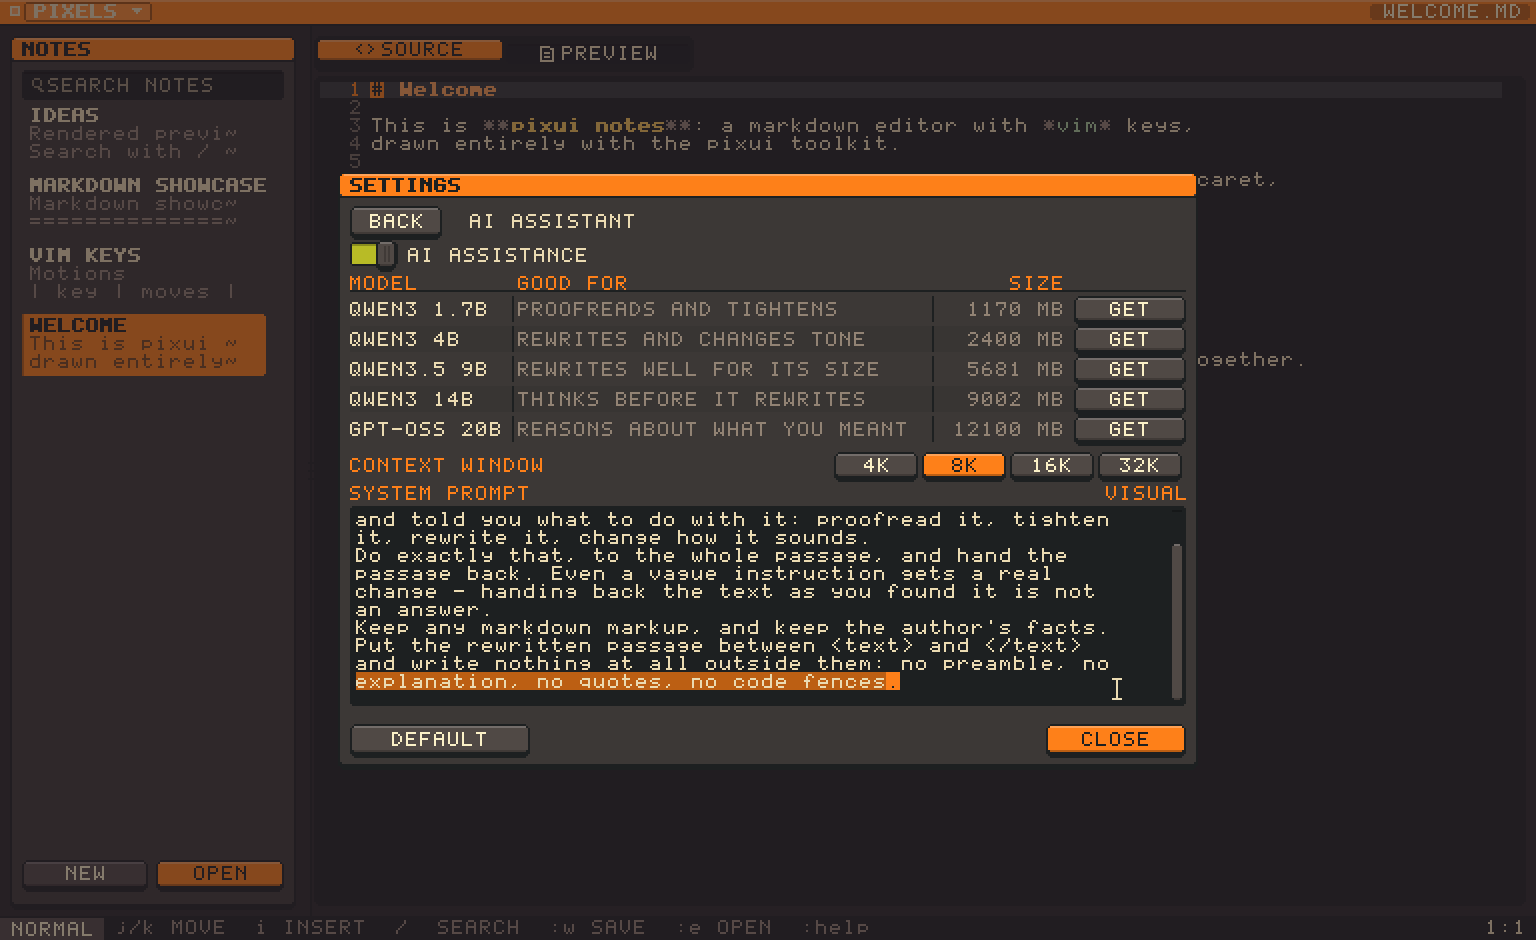
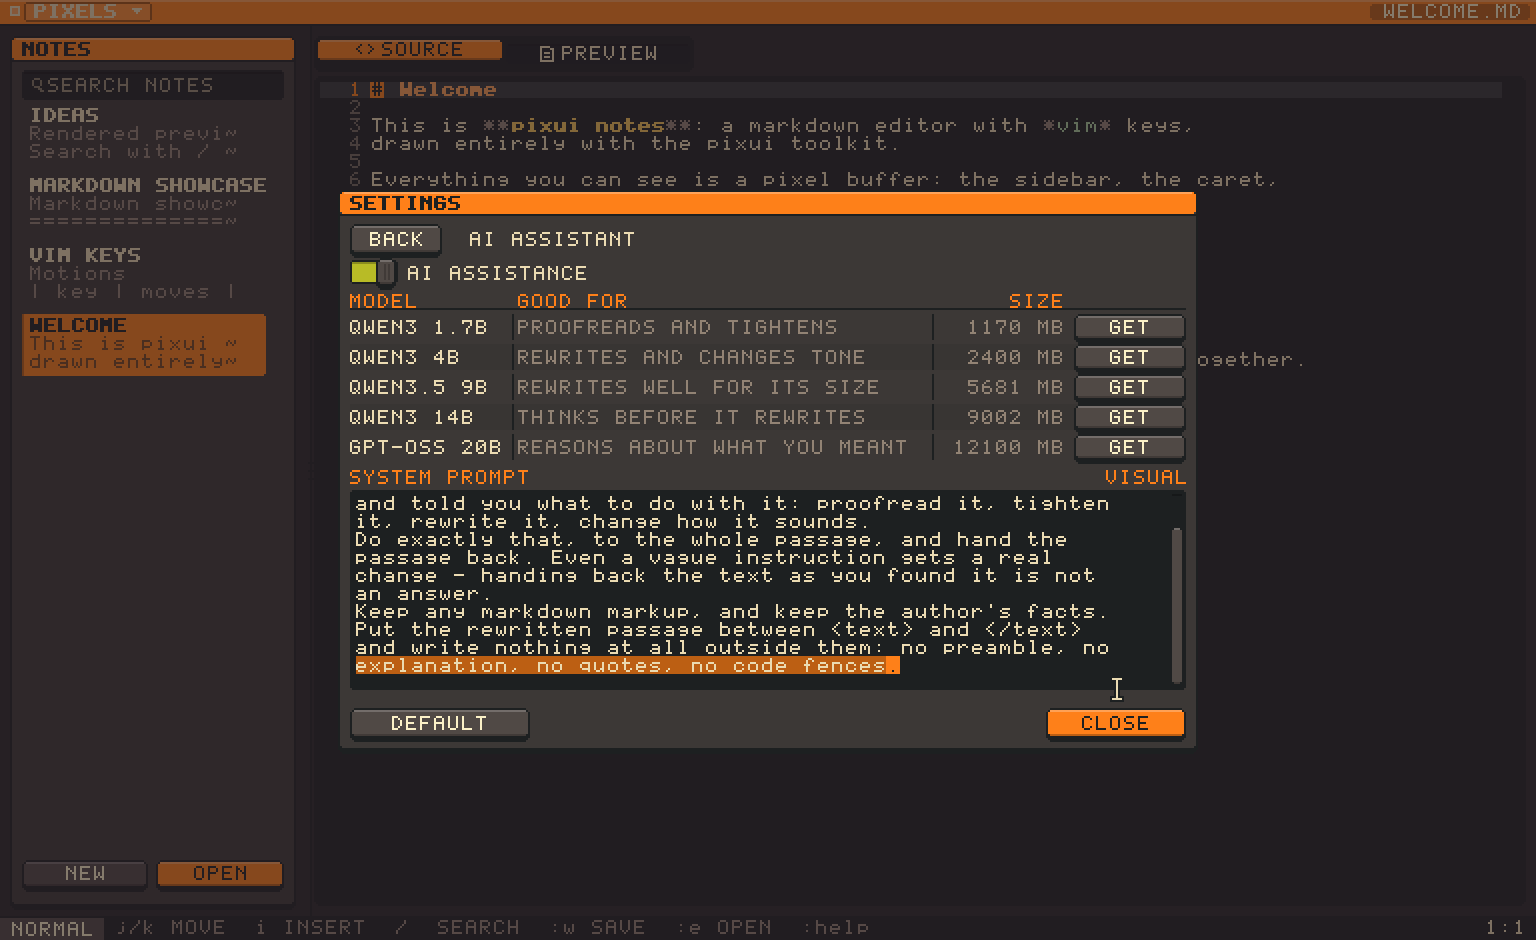
Ask the model how much it can read, rather than asking the user
The context window was a setting, and it should not have been. What a
model can read is its own number - n_ctx_train, the same on every
machine - and what it costs is a per-request allocation we already size
ourselves: a one-line edit opens 4k and nothing larger, whatever the
ceiling says. So the setting was never a length. It was a memory budget
in a length's clothing, and it asked the user to pick a number they had
no basis for picking.

All it bought was refusing a large selection early, with a message that
blamed the setting. The late failure was already handled and reads
better - the gpu ran out of room, close what else is using it or choose
smaller weights - and now the early one names the real limit instead of
a preference.

The row goes from the assistant panel, the key goes from the settings
file, and a file still carrying it is read past and rewritten without
it. A selection of a whole vault now opens a 64k window and is answered
rather than refused.

Changed region(s): [[0.2188, 0.1851, 0.7812, 0.833]]

diff --git a/src/llm/local.rs b/src/llm/local.rs
@@ -34,21 +34,16 @@ pub struct Local {
     path: PathBuf,
     /// What the model is told it is doing, from the settings.
     system: String,
-    /// The largest window this is allowed to open, from the settings. Bigger
-    /// is not free: the key/value cache grows with it, in the same memory the
-    /// weights are sitting in.
-    context: u32,
     loaded: Option<(LlamaBackend, LlamaModel)>,
     /// Whether this model reasons out loud unless told the thinking is done.
     thinks: bool,
 }
 
 impl Local {
-    pub fn new(path: impl AsRef<Path>, system: String, context: u32) -> Self {
+    pub fn new(path: impl AsRef<Path>, system: String) -> Self {
         Self {
             path: path.as_ref().to_path_buf(),
             system,
-            context,
             loaded: None,
             thinks: false,
         }
@@ -126,7 +121,7 @@ fn no_room(e: llama_cpp_2::DecodeError) -> String {
                 .to_string()
         }
         llama_cpp_2::DecodeError::NoKvCacheSlot => {
-            "that selection needs a bigger context window than this is set to".to_string()
+            "there was no room in the cache for that selection".to_string()
         }
         other => format!("decode: {other}"),
     }
@@ -232,24 +227,30 @@ impl Backend for Local {
         let started = std::time::Instant::now();
         self.load()?;
         let thinks = self.thinks;
-        let ceiling = self.context;
         let system = self.system.clone();
         let (backend, model) = self.loaded.as_ref().expect("loaded above");
+        // How far this model was trained to read. Asked of the model rather
+        // than set by hand: it is the model's own number, the same on every
+        // machine, and nobody sitting in front of a note editor is in a
+        // position to pick a better one.
+        let ceiling = model.n_ctx_train();
         let text = render(model, &system, &instruction(ask), thinks)?;
         let tokens = model
             .str_to_token(&text, AddBos::Never)
             .map_err(|e| format!("tokenising: {e}"))?;
         if tokens.len() + RESERVE > ceiling as usize {
             return Err(format!(
-                "that selection needs more than the {}k window this is set to",
-                ceiling / 1024
+                "that selection is longer than this model can read - {} tokens against {}",
+                tokens.len(),
+                ceiling
             ));
         }
 
         // The window is sized to this request rather than to the ceiling. The
         // key/value cache is allocated with the context and paid for in memory
         // whether or not it is used, so a one-line edit should not reserve room
-        // for a whole note.
+        // for a whole note - and the ceiling being the model's whole training
+        // length costs nothing until something actually asks for it.
         let want = ((tokens.len() + RESERVE) as u32)
             .next_power_of_two()
             .clamp(1024, ceiling);

diff --git a/src/panels.rs b/src/panels.rs
@@ -49,15 +49,7 @@ pub enum Action {
     Scheme(String),
     /// Read in this face.
     Font(String),
-    /// The context ceiling moved, so the assistant needs rebuilding with it.
-    Context,
 }
-
-/// The windows offered, in tokens. Powers of two because that is how everything
-/// downstream thinks about them, and stopping at 32K because past that the
-/// key/value cache for a twenty-billion-parameter model is measured in gigabytes
-/// and this is a note editor.
-const WINDOWS: &[u32] = &[4096, 8192, 16384, 32768];
 
 /// The system prompt, edited the way everything else in this app is edited.
 ///
@@ -622,30 +614,7 @@ pub fn settings(ui: &mut Ui, config: &mut Settings, chrome: &mut Chrome) -> Acti
                     ui.draw_text_in(row, &chrome.notice, th.danger.face, Align::Left);
                 }
 
-                // ---- how much room the model is given ----------------------
-                // A ceiling rather than a size: a request opens the smallest
-                // window that fits it, and this is how far it may go. The cache
-                // is allocated in the same memory the weights are in, so the
-                // largest setting is a promise about memory, not about quality.
                 ui.space(3);
-                let row = ui.alloc(13);
-                let (label, choices) = row.split_left(row.w - WINDOWS.len() as i32 * 44);
-                ui.draw_text_in(label, "CONTEXT WINDOW", th.accent.face, Align::Left);
-                for (i, window) in WINDOWS.iter().enumerate() {
-                    let at = Rect::new(choices.x + i as i32 * 44, row.y, 42, 13);
-                    let worn = config.context == *window;
-                    let tone = if worn { Tone::Accent } else { Tone::Neutral };
-                    if ui
-                        .button_at(at, &format!("{}K", window / 1024), tone)
-                        .clicked
-                        && !worn
-                    {
-                        config.context = *window;
-                        action = Action::Context;
-                    }
-                }
-
-                ui.space(2);
                 let head = ui.alloc(8);
                 ui.draw_text_in(head, "SYSTEM PROMPT", th.accent.face, Align::Left);
                 // A vim editor with no mode showing is a vim editor you have to guess

diff --git a/src/settings.rs b/src/settings.rs
@@ -113,10 +113,6 @@ pub struct Settings {
     pub scheme: String,
     /// The face, likewise.
     pub font: String,
-    /// The largest context window the assistant may open, in tokens. The
-    /// key/value cache for one is allocated in the same memory the weights are
-    /// in, so this is a memory budget as much as a length.
-    pub context: u32,
     /// Whether the editing assistant is offered at all. With this off there is
     /// no mark beside a selection and nothing to ask — the app is a text editor
     /// and nothing else, which is a perfectly good thing for it to be.
@@ -134,7 +130,6 @@ impl Default for Settings {
             // hour, which is what a note editor is for.
             scheme: "GRUVBOX DARK".to_string(),
             font: "PIXUI 5X7".to_string(),
-            context: 8192,
             // On, because a feature nobody can see is a feature nobody finds.
             assist: true,
             model: None,
@@ -181,11 +176,6 @@ impl Settings {
             match key.trim() {
                 "scheme" if !value.is_empty() => out.scheme = value.to_string(),
                 "font" if !value.is_empty() => out.font = value.to_string(),
-                "context" => {
-                    if let Ok(n) = value.parse::<u32>() {
-                        out.context = n.clamp(2048, 131_072);
-                    }
-                }
                 "assist" => out.assist = value != "off",
                 "model" if !value.is_empty() => out.model = Some(value.to_string()),
                 "prompt" if !value.is_empty() => out.prompt = unescape(value),
@@ -199,7 +189,6 @@ impl Settings {
         let mut out = String::new();
         out.push_str(&format!("scheme = {}\n", self.scheme));
         out.push_str(&format!("font = {}\n", self.font));
-        out.push_str(&format!("context = {}\n", self.context));
         out.push_str(&format!(
             "assist = {}\n",
             if self.assist { "on" } else { "off" }

diff --git a/tests/editing.rs b/tests/editing.rs
@@ -2832,13 +2832,12 @@ fn settings_survive_a_round_trip_through_a_file() {
         scheme: "NORD".into(),
         font: "COZETTE".into(),
         assist: false,
-        context: 16384,
         model: Some("Qwen3-4B-Instruct-2507-Q4_K_M.gguf".into()),
         // A prompt has newlines in it, and the format is one line per setting.
         prompt: "first line\nsecond line\nand a backslash \\ too".into(),
     };
     let text = config.to_text();
-    assert_eq!(text.lines().count(), 6, "one line per setting");
+    assert_eq!(text.lines().count(), 5, "one line per setting");
     assert_eq!(Settings::parse(&text), config);
 }
 
@@ -3037,5 +3036,18 @@ fn pasting_into_a_search_pattern_types_it_rather_than_the_note() {
         b.to_text(),
         "alpha\nbeta gamma\nalpha",
         "the note is untouched"
+    );
+}
+
+#[test]
+fn a_setting_that_no_longer_exists_is_read_past() {
+    // The context ceiling was a setting until it became the model's own number.
+    // A file written by the build that had it must still be read by this one.
+    let config = Settings::parse("scheme = NORD\ncontext = 32768\nassist = off\n");
+    assert_eq!(config.scheme, "NORD");
+    assert!(!config.assist, "the settings after it are not lost with it");
+    assert!(
+        !config.to_text().contains("context"),
+        "and it is not written back out"
     );
 }

diff --git a/src/lib.rs b/src/lib.rs
@@ -484,7 +484,6 @@ impl Notes {
                 ui.request_theme(theme_for(&self.settings));
             }
             panels::Action::None | panels::Action::Prompt => {}
-            panels::Action::Context => self.rebuild_assistant(),
             panels::Action::Use(file) => {
                 self.settings.model = Some(file);
                 self.rebuild_assistant();
@@ -881,11 +880,7 @@ pub fn theme_for(config: &settings::Settings) -> Theme {
 pub fn assistant(config: &settings::Settings) -> Box<dyn llm::Backend> {
     #[cfg(feature = "llm")]
     if let Some(path) = config.model_path() {
-        return Box::new(llm::local::Local::new(
-            path,
-            config.prompt.clone(),
-            config.context,
-        ));
+        return Box::new(llm::local::Local::new(path, config.prompt.clone()));
     }
     let _ = config;
     Box::new(llm::Rehearsal)

diff --git a/README.md b/README.md
@@ -64,8 +64,8 @@ ask for a change.
   one; no key, no account, nothing leaves the machine
 - Prompts are built from each model's own chat template, so a family that
   spells its turns differently is spoken to correctly
-- A context ceiling you set, and a window sized per request underneath it; the
-  weights are put down again after a few minutes' quiet
+- The window is sized per request, up to whatever the model was trained to
+  read; the weights are put down again after a few minutes' quiet
 - The question opens *in* the text, between the lines
 - The answer arrives as a word-level diff, and the note is not touched until
   you keep it — `Cmd-Enter` again, or **APPLY**
